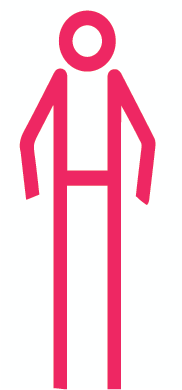
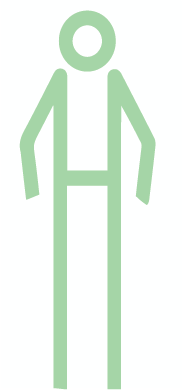
changed color to blue/greens

Changed region(s): [[0.1099, 0.0, 0.8516, 1.0]]

diff --git a/assets/css/main.css b/assets/css/main.css
@@ -14,7 +14,7 @@
   padding: 0; }
 
 html {
-  background: linear-gradient(rgba(225, 225, 225, 0.9), rgba(238, 37, 98, 0.9)); }
+  background: linear-gradient(rgba(225, 225, 225, 0.9), rgba(102, 199, 192, 0.9)); }
 
 body {
   font-family: montserrat, arial, verdana; }
@@ -48,7 +48,7 @@ input[type='radio']:checked:after {
   top: -3px;
   left: -1px;
   position: relative;
-  background-color: #ee2562;
+  background-color: #428980;
   content: '';
   display: inline-block;
   visibility: visible;
@@ -60,7 +60,7 @@ select {
   height: 30px;
   color: #fff;
   font-size: 13px;
-  background-color: #ee2562;
+  background-color: #428980;
   border: #FEFEFE 1px solid;
   -webkit-border-radius: 3px;
   border-radius: 3px; }
@@ -98,7 +98,7 @@ select {
   width: 100%;
   box-sizing: border-box;
   font-family: montserrat;
-  color: #ee2562;
+  color: #428980;
   font-size: 13px; }
 
 #msform input[type="checkbox"] {
@@ -107,7 +107,7 @@ select {
 /* previous, next, submit buttons*/
 #msform .action-button {
   width: 100px;
-  background: #ee2562;
+  background: #428980;
   color: white;
   border: 0 none;
   border-radius: 1px;
@@ -142,7 +142,7 @@ select {
 
 #progressbar li {
   list-style-type: none;
-  color: #ee2562;
+  color: #428980;
   text-transform: uppercase;
   font-size: 9px;
   width: 33.33%;
@@ -159,14 +159,15 @@ select {
   color: #333;
   background: #fff;
   border-radius: 3px;
-  margin: 0 auto 5px auto; }
+  margin: 0 auto 5px auto;
+  border: 1px solid #428980; }
 
 /*progressbar connectors*/
 #progressbar li:after {
   content: '';
   width: 100%;
   height: 2px;
-  background: #ee2562;
+  background: #428980;
   position: absolute;
   left: -50%;
   top: 9px;
@@ -180,7 +181,7 @@ select {
 /*marking active/completed steps*/
 /*The number of the step and the connector before it = green*/
 #progressbar li.active:before, #progressbar li.active:after {
-  background: #ee2562;
+  background: #428980;
   color: #fff; }
 
 #name {
@@ -261,7 +262,7 @@ select {
   left: 3px;
   width: 50%;
   height: 35px;
-  background: #ee2562;
+  background: #428980;
   box-shadow: 4px 2px 5px rgba(0, 0, 0, 0.2); }
 
 .gender-switch-input:checked ~ .gender-switch-handle,
@@ -273,7 +274,7 @@ select {
   transition: All 0.3s ease; }
 
 #rangevalue {
-  color: #ee2562;
+  color: #428980;
   font-size: 13px; }
 
 .age {
@@ -291,13 +292,13 @@ select {
   appearance: none;
   width: 27px;
   height: 30px;
-  background: #ee2562;
+  background: #428980;
   cursor: pointer; }
 
 .slider::-moz-range-thumb {
   width: 27px;
   height: 30px;
-  background: #ee2562;
+  background: #428980;
   cursor: pointer; }
 
 .hair-container .hair label {
@@ -405,21 +406,21 @@ select {
     cursor: pointer;
     margin: 10px; }
     .age-row label:hover {
-      color: #ee2562;
+      color: #428980;
       transition: 1s;
-      border: 2px solid #ee2562;
+      border: 2px solid #428980;
       padding: 9px 14px; }
 
 .age2 input:checked + label {
-  border: 2px solid #ee2562;
-  color: #ee2562; }
+  border: 2px solid #428980;
+  color: #428980; }
 
 .datep {
   margin-top: 18px; }
 
 #dialog {
   justify-content: center;
-  background-color: #ee2562;
+  background-color: #428980;
   color: white;
   padding: 50px;
   display: none; }

diff --git a/assets/sass/main.scss b/assets/sass/main.scss
@@ -16,7 +16,7 @@
 
 html {
 	background: 
-		linear-gradient(rgba(225, 225, 225, 0.9), rgba(238, 37, 98, 0.9));
+		linear-gradient(rgba(225, 225, 225, 0.9), rgba(102, 199, 192, 0.9));
 }
 
 body {
@@ -58,7 +58,7 @@ input[type='radio']:checked:after {
     top: -3px;
     left: -1px;
     position: relative;
-    background-color: #ee2562;
+    background-color: #428980;
     content: '';
     display: inline-block;
     visibility: visible;
@@ -72,7 +72,7 @@ select{
 	height: 30px;
 	color: #fff;
 	font-size: 13px;
-	background-color: #ee2562;
+	background-color: #428980;
   	border: #FEFEFE 1px solid;
  	-webkit-border-radius: 3px;
  	border-radius: 3px;
@@ -120,7 +120,7 @@ select{
 	width: 100%;
 	box-sizing: border-box;
 	font-family: montserrat;
-	color: #ee2562;
+	color: #428980;
 	font-size: 13px;
 }
 
@@ -131,7 +131,7 @@ select{
 /* previous, next, submit buttons*/
 #msform .action-button {
 	width: 100px;
-	background: #ee2562;
+	background: #428980;
 	color: white;
 	border: 0 none;
 	border-radius: 1px;
@@ -167,11 +167,12 @@ select{
 	overflow: hidden;
 	/*CSS counters to number the steps*/
 	counter-reset: step;
+
 }
 
 #progressbar li {
 	list-style-type: none;
-	color: #ee2562;
+	color: #428980;
 	text-transform: uppercase;
 	font-size: 9px;
 	width: 33.33%;
@@ -190,6 +191,7 @@ select{
 	background: #fff;
 	border-radius: 3px;
 	margin: 0 auto 5px auto;
+	border: 1px solid #428980;
 }
 
 /*progressbar connectors*/
@@ -197,7 +199,7 @@ select{
 	content: '';
 	width: 100%;
 	height: 2px;
-	background: #ee2562;
+	background: #428980;
 	position: absolute;
 	left: -50%;
 	top: 9px;
@@ -212,7 +214,7 @@ select{
 /*marking active/completed steps*/
 /*The number of the step and the connector before it = green*/
 #progressbar li.active:before,  #progressbar li.active:after{
-	background: #ee2562;
+	background: #428980;
 	color: #fff;
 }
 
@@ -324,7 +326,7 @@ select{
 	left: 3px;
 	width: 50%;
 	height: 35px;
-	background: #ee2562;
+	background: #428980;
 	box-shadow: 4px 2px 5px rgba(0, 0, 0, 0.2);
 }
 
@@ -344,7 +346,7 @@ select{
 
 // age range sliders --------------------------------------------------------
 #rangevalue{
-	color: #ee2562;
+	color: #428980;
 	font-size: 13px;
 }
 
@@ -366,14 +368,14 @@ select{
     appearance: none;
     width: 27px;
     height: 30px;
-    background: #ee2562;
+    background: #428980;
     cursor: pointer;
 }
 
 .slider::-moz-range-thumb  {
     width: 27px;
     height: 30px;
-    background: #ee2562;
+    background: #428980;
     cursor: pointer;
 }
 
@@ -549,9 +551,9 @@ select{
 		margin: 10px;
 
 		&:hover {
-			color: #ee2562;
+			color: #428980;
 			transition: 1s;
-			border: 2px solid #ee2562;
+			border: 2px solid #428980;
 			padding: 9px 14px;
 		}
 	}
@@ -560,8 +562,8 @@ select{
 
 // if checked/clicked make border
 .age2 input:checked + label{
-   border: 2px solid #ee2562;
-   color: #ee2562;
+   border: 2px solid #428980;
+   color: #428980;
 }
 
 // date --------------------------------------------------
@@ -576,7 +578,7 @@ select{
 
 #dialog {
 	justify-content: center;
-	background-color: #ee2562;
+	background-color: #428980;
 	color: white;
 	padding: 50px;
 	display: none;

diff --git a/index.html b/index.html
@@ -62,7 +62,7 @@
         <p class="age">Your age (21+ only)</p>
         <div class="age">
           <input type = "range" min="16" max="50" class="slider" id="myRange" onchange="rangevalue.value=value"/>
-          <div id="rangevalue" value=""></div>
+          <div id="rangevalue"></div>
         </div>
 
 
@@ -103,12 +103,11 @@
           <option selected="true" disabled="disabled">I'm...</option>
           <option value="petite" name="bod">I'm petite</option>
           <option value="thin" name="bod">I'm thin</option>
-          <option value="cushion" name="bod">I've got some cushion</option>
           <option value="athletic" name="bod">I'm athletic</option>
           <option value="muscle" name="bod">I'm all muscle baby</option>
           <option value="builder" name="bod">I'm basically a body builder</option>
-          <option value="lovehandle" name="bod">I love my love handles</option>
-          <option value="overweight" name="bod">I want to lose some weight</option>
+          <option value="lovehandle" name="bod">I'm curvy</option>
+          <option value="overweight" name="bod">I'm overweight</option>
         </select>
         
         <p>What are you looking for?</p>
